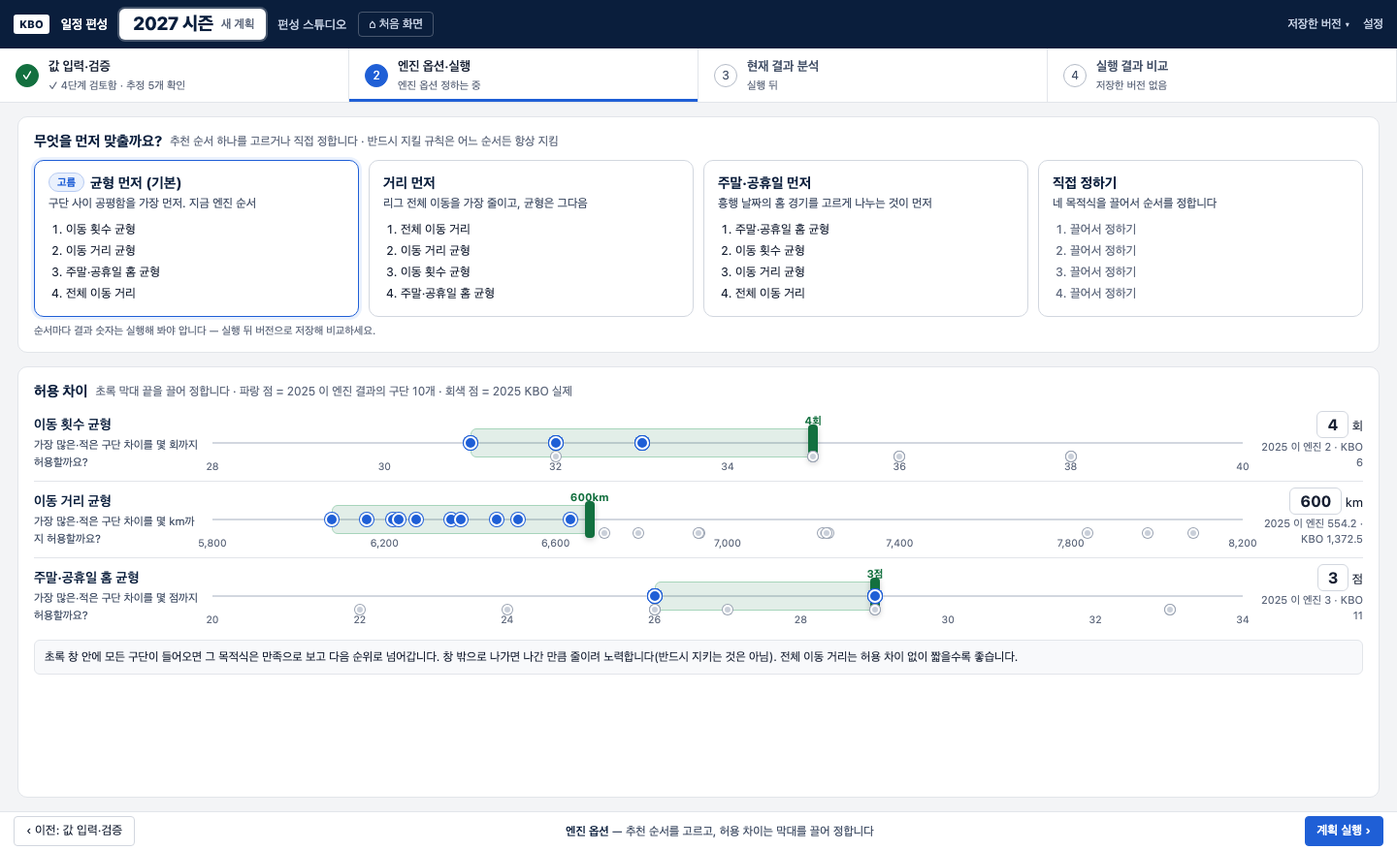
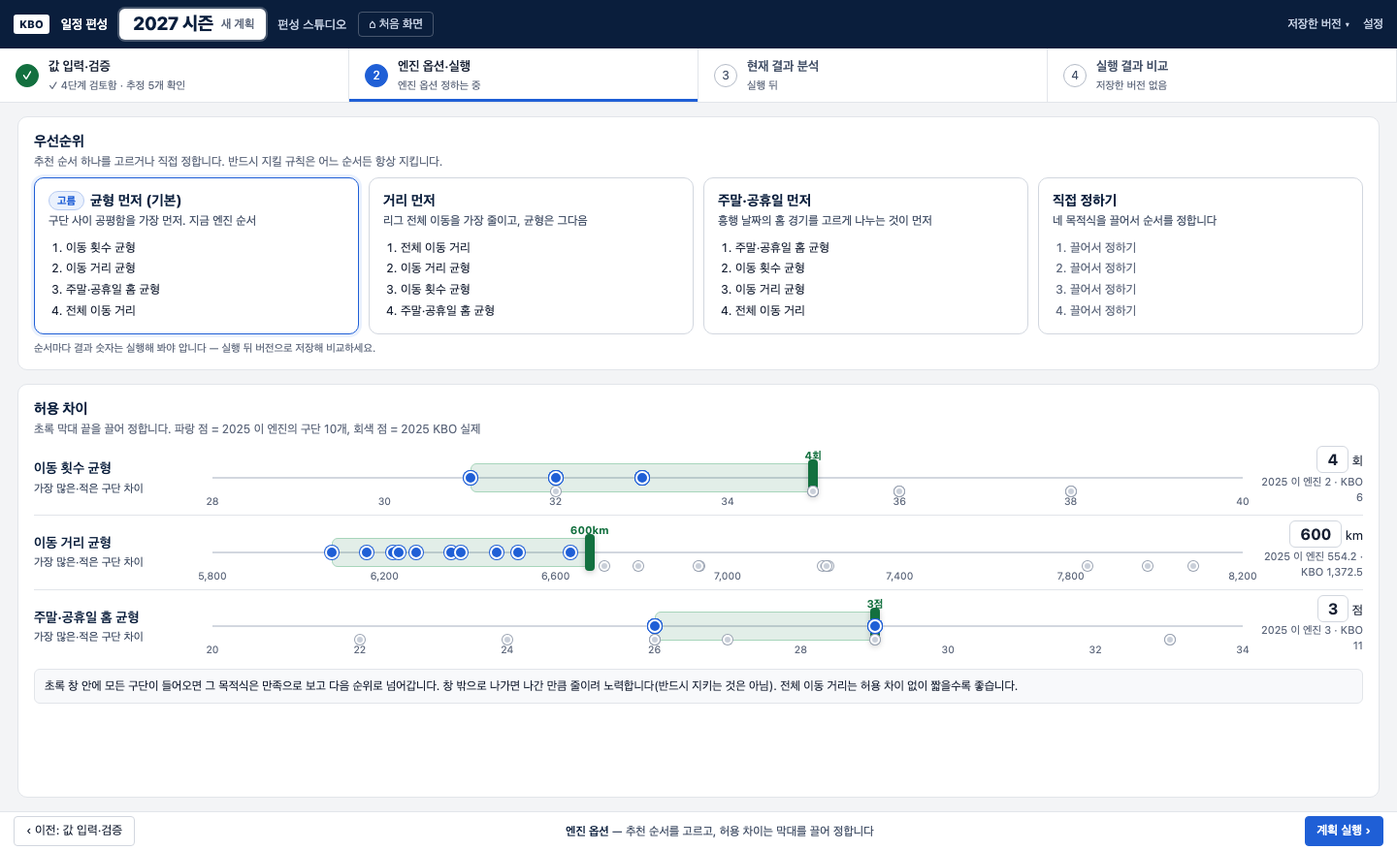
계획 흐름 시안: 처음 화면 정보 줄임(2025 숫자 하나 · 2027은 값 입력·검증 4단계만), 제목은 짧게 설명은 밑 줄로, 개발 용어(JSON·파일 이름·출발점) 바꿈

Changed region(s): [[0.0, 0.1539, 0.9688, 0.8312], [0.5, 0.1847, 0.6562, 0.3694], [0.75, 0.1847, 0.875, 0.3694]]

diff --git a/ui-archive/plan-flow-concepts/index.html b/ui-archive/plan-flow-concepts/index.html
@@ -21,18 +21,19 @@ a{color:#1F5FD6}
 <div class="box"><b>순서</b><div class="flow"><span class="b">처음 화면</span>→<span>2025 결과 보기(강조 · 보기 전용)</span>&nbsp;또는&nbsp;<span class="b">2027 값 입력·검증</span>(1 구단 정보 → 2 시즌 기간 → 3 공휴일·홈 구장 → 4 확인)→<span class="b">엔진 옵션·실행</span>→<span class="b">결과 분석</span>→<span>버전 저장 · 비교 · 옵션 바꿔 다시</span></div>
 <ul>
 <li><b>정한 것</b>: 목적식 우선순위는 <b>순서만</b> 정함(위가 조금이라도 나으면 그쪽) · 허용 차이는 <b>가장 많은 구단과 가장 적은 구단의 차이</b> · 넘으면 <b>줄이려 노력</b>(반드시는 아님) · 주말과 공휴일은 <b>한 점수로 합침</b>(주말 하루 1점 · 공휴일 2점 · 어린이날 3점, 지금 엔진 그대로).</li>
-<li><b>숫자는 모두 실제로 돌린 값</b>입니다. 2025 이 엔진 = 저장된 결과(10/20 실행), 2027 기본안 = 2027 원칙 입력으로 엔진 28.7초, 2027 개막 대진 바꾼 안 = 같은 방식 19.4초. 모두 브라우저 채점기로 다시 셌습니다.</li>
+<li><b>숫자는 모두 실제로 돌린 값</b>입니다. 2025 이 엔진 = 저장된 결과(10/20 실행), 2027 기본안 = 2027 원칙 입력으로 엔진 28.7초, 2027 개막 대진 바꾼 안 = 같은 방식 19.4초. 모두 스튜디오 점검 기능으로 다시 셌습니다.</li>
 <li><b>엔진을 고쳐야 하는 것 두 가지</b>: (1) 목적식 순서가 지금은 코드에 고정(이동 횟수 → 이동 거리 → 주말·공휴일 → 전체 거리) → 화면에서 정한 순서를 받도록. (2) 허용 차이가 지금은 「리그 평균 ±값」 방식 → 「가장 많은·적은 구단 차이」로. 그래서 <b>순서를 바꾼 결과의 숫자는 아직 없습니다</b>(대안 A의 추천 순서 카드에 숫자를 넣지 않은 이유).</li>
 <li><b>허용 차이 기본값 4회 · 600km · 3점</b>은 지금 엔진 기본값(평균 ±2회 · ±300km · ±1.5점)을 차이로 옮긴 제안값입니다. 결과에 맞춰 고른 값이 아닙니다 — 2027 기본안의 이동 거리 차이 594.4km는 600km에 거의 붙어 있습니다.</li>
-<li><b>주의 — 엔진 결과가 실행마다 흔들립니다.</b> 2025를 오늘 엔진으로 다시 돌리면 69,821km(KBO보다 4% 짧음), 출발점 하나하나는 63,312~73,960km였습니다. 2025 화면의 −13%는 저장된 가장 좋은 결과입니다. 표준 10과 대안 C에 「전체 이동 거리가 수천 km씩 달라질 수 있으니 다시 실행해 확인」 안내를 넣었습니다.</li>
+<li><b>주의 — 엔진 결과가 실행마다 흔들립니다.</b> 2025를 오늘 엔진으로 다시 돌리면 69,821km(KBO보다 4% 짧음), 시도 하나하나는 63,312~73,960km였습니다. 2025 화면의 −13%는 저장된 가장 좋은 결과입니다. 표준 10과 대안 C에 「전체 이동 거리가 수천 km씩 달라질 수 있으니 다시 실행해 확인」 안내를 넣었습니다.</li>
 <li><b>따라 하기 모양</b>은 지금 스튜디오의 「따라 하기 카드」를 그대로 썼습니다. 모양(카드 · 체크리스트 · 말풍선)은 아직 고르지 않은 초기화·튜토리얼 3안 브랜치에서 고르시면 됩니다.</li>
 </ul></div>
+<div class="box" style="border-color:#1F5FD6"><b>화면 글 원칙</b> — 개발 용어는 쓰지 않고, 제목은 짧게 · 설명은 그 밑 줄에.</div>
 <div class="box" style="border-color:#1F5FD6"><b>고른 조합 (2026-10-31 사용자 결정)</b> — 엔진 옵션은 <b>대안 A</b>, 결과 분석은 <b>대안 B</b>, 결과 비교는 <b>네 번째 단계 「실행 결과 비교」</b>로 따로 둡니다(대안 C는 쓰지 않음). 단계 띠는 4칸: 값 입력·검증 → 엔진 옵션·실행 → 현재 결과 분석 → 실행 결과 비교.
 <div class="flow"><a href="s1-start.html"><span>처음 화면</span></a>→<a href="s2-2025.html"><span>2025 결과</span></a>&nbsp;또는&nbsp;<a href="s3-teams.html"><span class="b">1 값 입력·검증</span></a>(<a href="s3-teams.html">1</a> · <a href="s4-season.html">2</a> · <a href="s5-home.html">3</a> · <a href="s6-check.html">4</a>)→<a href="a-options.html"><span class="b">2 엔진 옵션(A)</span></a>→<a href="s8-running.html"><span>실행 중</span></a>→<a href="b-dashboard.html"><span class="b">3 현재 결과 분석(B)</span></a>→<a href="s10-versions.html"><span class="b">4 실행 결과 비교</span></a></div>
 <ul><li>「실행 결과 비교」는 순서대로 가는 단계가 아니라 <b>저장한 버전이 있으면 언제든 누를 수 있는 탭</b>입니다. 버전 저장은 3 현재 결과 분석에서 합니다.</li></ul></div>
 <h2 style="font-size:20px;margin-top:40px">표준안</h2>
 <h2>표준 1 · 처음 화면</h2>
-<figure><a href="s1-start.html"><img src="shots/s1-start.png" alt=""></a><figcaption><b>2025 보기 / 2027 만들기.</b> 2025 카드에 목적식 4개의 KBO 실제 → 이 엔진 숫자를 미리 보여 주고, 2027 카드에는 세 단계(값 입력·검증 → 엔진 옵션·실행 → 결과 분석)와 <b>추정값이 있다</b>는 것을 먼저 알립니다. 2027 버튼은 「1 구단 정보부터」.</figcaption></figure>
+<figure><a href="s1-start.html"><img src="shots/s1-start.png" alt=""></a><figcaption><b>2025 보기 / 2027 만들기 — 정보를 줄임.</b> 2025 카드는 핵심 숫자 하나(전체 이동 거리 13% 짧음). 2027 카드는 <b>값 입력·검증 4단계만</b> 알려 줍니다(단계마다 추정값 개수). 엔진 옵션·결과 분석 설명은 뺐습니다.</figcaption></figure>
 <h2>표준 2 · 2025 결과 — 우리가 낫다는 점을 강조</h2>
 <figure><a href="s2-2025.html"><img src="shots/s2-2025.png" alt=""></a><figcaption><b>목적식 4개가 모두 좋아졌다</b>를 맨 위에 크게. 목적식 순위 순으로 KBO 실제 → 이 엔진(이동 횟수 차이 6 → 2회 · 이동 거리 차이 1,372.5 → 554.2km · 주말·공휴일 점수 차이 11 → 3점 · 전체 이동 거리 72,955 → 63,312km). 균형 세 가지는 KBO 실제가 허용 차이를 넘고 이 엔진은 안에 있다는 것도 표시. <b>KBO가 나은 점</b>(가장 긴 연속 원정 2~3 vs 3시리즈)도 숨기지 않습니다. 보기 전용.</figcaption></figure>
 <h2>표준 3 · 2027 1 구단 정보 — 따라 하기 시작</h2>
@@ -50,7 +51,7 @@ a{color:#1F5FD6}
 <h2>표준 9 · 2027 결과 분석 — 목적식마다 탭</h2>
 <figure><a href="s9-analysis.html"><img src="shots/s9-analysis.png" alt=""></a><figcaption><b>맨 위에서 이름을 붙여 버전으로 저장.</b> 목적식 타일 4개(누르면 아래 탭이 바뀜) → 탭(목적식 4개 + 주말 홈 시리즈 · 연속 원정). 이동 거리 균형 탭: 구단별 표(평균과 차이 · 가장 적은 구단과 차이)와 허용 띠가 있는 막대 그래프, 「NC 6,675.7 · 두산 6,081.3 → 차이 594.4km, 허용 600km 안」 한 줄.</figcaption></figure>
 <h2>표준 10 → 4단계 · 2027 실행 결과 비교 — 저장한 버전끼리 (고른 조합에 씀)</h2>
-<figure><a href="s10-versions.html"><img src="shots/s10-versions.png" alt=""></a><figcaption><b>버전 목록에서 두 개를 골라 목적식마다 비교.</b> 실제로 돌린 두 버전: 기본안 vs 개막 대진 바꾼 안(롯데@KT · 한화@KIA). 「순위대로 따지면 1~3순위는 둘 다 허용 안 → 4순위 전체 이동 거리에서 이번 실행에서는 기본안이 5,238km 짧았다」를 풀어 씀. <b>단, 이 차이는 실행마다의 흔들림 안에 있습니다</b>(출발점별 기본안 63,754~70,419km · 바꾼 안 67,511~76,027km). 그래서 화면에 「수천 km씩 달라질 수 있으니 다시 실행해 확인」을 넣었습니다. 저장은 버전마다 JSON 파일 하나(나중에 온라인 저장소), 파일로 내보내기·불러오기.</figcaption></figure>
+<figure><a href="s10-versions.html"><img src="shots/s10-versions.png" alt=""></a><figcaption><b>버전 목록에서 두 개를 골라 목적식마다 비교.</b> 실제로 돌린 두 버전: 기본안 vs 개막 대진 바꾼 안(롯데@KT · 한화@KIA). 「순위대로 따지면 1~3순위는 둘 다 허용 안 → 4순위 전체 이동 거리에서 이번 실행에서는 기본안이 5,238km 짧았다」를 풀어 씀. <b>단, 이 차이는 실행마다의 흔들림 안에 있습니다</b>(시도별 기본안 63,754~70,419km · 바꾼 안 67,511~76,027km). 그래서 화면에 「수천 km씩 달라질 수 있으니 다시 실행해 확인」을 넣었습니다. 저장은 스튜디오 안(나중에 온라인으로), 내려받기·올리기.</figcaption></figure>
 
 <h2 style="font-size:20px;margin-top:40px">대안 — 한 영역씩만 다름</h2>
 <h2>대안 A · 엔진 옵션 — 추천 순서 카드 + 허용 차이를 그림으로</h2>

diff --git a/ui-archive/plan-flow-concepts/s5-home.html b/ui-archive/plan-flow-concepts/s5-home.html
@@ -4,19 +4,19 @@ P.chrome({ year: 2027, mode: '새 계획', stage: 1, ssub: { 1: '3 / 4 공휴일
   prev: '이전: 2 시즌 기간·연전 묶음', hint: '<b>3 / 4 공휴일·홈 구장</b> — 개막전·어린이날 홈 구단을 확인합니다', next: '다음: 4 확인', nextDis: true });
 const chips = (a) => a.map((t) => '<span class="chip on" style="padding:2px 9px">' + t + '</span>').join(' ');
 document.querySelector('.wrap2').innerHTML =
-  '<div class="sec" style="overflow:hidden"><h3>2027 공휴일·홈 구장 <span class="r small muted">2 / 4 확인함</span></h3><p class="d">정한 날에 홈 경기를 할 구단을 지정합니다. 나머지 날의 홈·원정은 엔진이 정합니다.</p>' +
-  P.rv({ t: '공휴일', tag: 'cal', v: '1차 편성 기간 안 5일 — 5/5 어린이날 · 5/13 부처님오신날 · 6/6 현충일 · 8/15 광복절 · 8/16 대체공휴일 (추석 9/14~16은 1차 편성 뒤)', why: '정부 공휴일 달력 그대로입니다. 홈 경기 점수는 주말 하루 1점, 공휴일 2점, 어린이날 3점으로 셉니다.', src: '공휴일 달력', state: 'ok' }) +
+  '<div class="sec" style="overflow:hidden"><h3>공휴일·홈 구장 <span class="r small">2 / 4 확인함</span></h3><p class="d">정한 날에 홈 경기를 할 구단을 지정합니다. 나머지 날의 홈·원정은 엔진이 정합니다.</p>' +
+  P.rv({ t: '공휴일', tag: 'cal', v: '1차 편성 기간 안 5일', v2: '5/5 어린이날 · 5/13 부처님오신날 · 6/6 현충일 · 8/15 광복절 · 8/16 대체공휴일 (추석 9/14~16은 1차 편성 뒤)', why: '정부 공휴일 달력 그대로입니다. 홈 경기 점수는 주말 하루 1점, 공휴일 2점, 어린이날 3점으로 셉니다.', src: '공휴일 달력', state: 'ok' }) +
   P.rv({ t: '홈 경기 수', tag: 'rule', v: '73경기: 한화 · SSG · KT · 롯데 · 두산 &nbsp;/&nbsp; 71경기: 나머지 5구단', why: '맞대결 16경기 중 홈 8·원정 8, 남는 홈 경기는 해마다 번갈아 가집니다(2027 = 홀수 해).', src: '2027 원칙', state: 'ok' }) +
-  P.rv({ t: '개막 2연전 홈 · 3/27(토)·28(일)', tag: 'est', v: chips(['KT', '삼성', 'KIA', 'LG', 'SSG']) + ' <span class="small muted" style="margin-left:6px">대진 한화@KT · NC@삼성 · 롯데@KIA · 키움@LG · 두산@SSG</span>', why: '전년도 상위 5구단이 홈에서 개막합니다. 2026 최종 순위가 정해지면 다시 확인하세요.', src: '2027_kbo_135.md', state: 'cur' }) +
-  P.rv({ t: '어린이날 홈 · 5/5(수)', tag: 'est', v: chips(['두산', '키움', '한화', '롯데', 'NC']), why: '어린이날 홈은 해마다 번갈아 가집니다(홀수 해 = 이 5구단).', src: '2027_kbo_135.md' }) +
-  P.rv({ t: '후반기 첫 4연전 홈 · 7/15(목)~18(일)', tag: 'rule', v: '개막 대진 그대로, 개막전 홈 구장에서', why: '개막전 홈 구단을 고치면 함께 바뀝니다.', src: '2027 원칙' }) +
+  P.rv({ t: '개막 2연전 홈', tag: 'est', v: '3/27(토)·28(일) &nbsp;' + chips(['KT', '삼성', 'KIA', 'LG', 'SSG']) + ' <span class="small muted" style="margin-left:6px">대진 한화@KT · NC@삼성 · 롯데@KIA · 키움@LG · 두산@SSG</span>', why: '전년도 상위 5구단이 홈에서 개막합니다. 2026 최종 순위가 정해지면 다시 확인하세요.', src: '2027 일정 원칙', state: 'cur' }) +
+  P.rv({ t: '어린이날 홈', tag: 'est', v: '5/5(수) &nbsp;' + chips(['두산', '키움', '한화', '롯데', 'NC']), why: '어린이날 홈은 해마다 번갈아 가집니다(홀수 해 = 이 5구단).', src: '2027 일정 원칙' }) +
+  P.rv({ t: '후반기 첫 4연전 홈', tag: 'rule', v: '7/15(목)~18(일) · 개막 대진 그대로', why: '개막전 홈 구단을 고치면 함께 바뀝니다.', src: '2027 원칙' }) +
   '</div>' +
-  '<div class="sec"><h3>지정한 날 한눈에</h3><p class="d">홈 구단이 정해진 날만 표시합니다.</p>' +
+  '<div class="sec"><h3>지정한 날</h3><p class="d">홈 구단이 정해진 날만</p>' +
   '<table class="cmp"><thead><tr><th>날짜</th><th>홈 구단</th><th>상태</th></tr></thead><tbody>' +
   '<tr><td>3/27~28 개막</td><td>KT·삼성·KIA·LG·SSG</td><td><span class="tag est">추정</span></td></tr>' +
   '<tr><td>5/5 어린이날</td><td>두산·키움·한화·롯데·NC</td><td><span class="tag est">추정</span></td></tr>' +
   '<tr><td>7/15~18 후반기</td><td>개막과 같음</td><td><span class="tag blue">자동</span></td></tr></tbody></table>' +
-  '<div class="box warn" style="margin-top:12px"><h4>추정값 2개 · 0개 확인함</h4><div class="small">개막 2연전 홈 · 어린이날 홈</div></div></div>' +
-  P.ring(14, 268, 1042, 94) +
-  P.coach({ n: 3, of: 4, title: '개막전 홈은 전년도 순위로 정해집니다', text: '지금은 예상 순위로 채워 두었습니다. 다르면 「고치기」를 눌러 구단을 바꾸세요. 개막 대진을 바꾸면 후반기 첫 4연전도 같은 대진으로 따라 바뀝니다.', x: 640, y: 372, side: 't', w: 360 });
+  '<div class="box warn" style="margin-top:12px"><h4>추정값 0 / 2 확인</h4><div class="small">개막 2연전 홈 · 어린이날 홈</div></div></div>' +
+  P.ring(14, 287, 1042, 94) +
+  P.coach({ n: 3, of: 4, title: '개막전 홈 확인', text: '지금은 예상 순위로 채워 두었습니다. 다르면 「고치기」를 눌러 구단을 바꾸세요. 개막 대진을 바꾸면 후반기 첫 4연전도 같은 대진으로 따라 바뀝니다.', x: 640, y: 390, side: 't', w: 360 });
 </script></body></html>

diff --git a/ui-archive/plan-flow-concepts/s4-season.html b/ui-archive/plan-flow-concepts/s4-season.html
@@ -3,18 +3,18 @@ const P = Plan;
 P.chrome({ year: 2027, mode: '새 계획', stage: 1, ssub: { 1: '2 / 4 시즌 기간 · 검토 중', 2: '값 검토를 마치면', 3: '실행 뒤', 4: '저장한 버전 없음' }, at: 2, sub: { 1: '✓ 바뀐 것 없음', 2: '1 / 4 확인함 · 따라 하기 2 / 4' },
   prev: '이전: 1 구단 정보', hint: '<b>2 / 4 시즌 기간·연전 묶음</b> — 노란 추정값을 하나씩 확인합니다', next: '다음: 3 공휴일·홈 구장', nextDis: true });
 document.querySelector('.wrap2').innerHTML =
-  '<div class="sec" style="overflow:hidden"><h3>2027 시즌 기간·연전 묶음 <span class="r small muted">줄마다 「맞아요」 또는 「고치기」 · 1 / 4 확인함</span></h3><p class="d">개막일과 1차 편성 기간이 정해지면 경기일과 연전 묶음은 규칙대로 자동으로 만들어집니다.</p>' +
-  P.rv({ t: '개막일', tag: 'est', v: '2027-03-27(토) · 개막 2연전 3/27(토)·28(일)', why: '3월 넷째 주 토요일에 2연전으로 엽니다(2025는 3/22 토 개막).', src: '2027_kbo_135.md 예상안', state: 'ok' }) +
-  P.rv({ t: '1차 편성이 끝나는 날', tag: 'est', v: '2027-09-05(일) · 경기일 135일', why: '개막부터 경기일을 세어 135일이 되는 첫 일요일입니다. 남은 경기(잔여 일정)는 그 뒤에 따로 짭니다.', src: '2027_kbo_135.md', state: 'cur' }) +
-  P.rv({ t: '올스타 휴식기', tag: 'est', v: '2027-07-09(금) ~ 07-14(수) · 6일 경기 없음', why: '7월 둘째 금요일부터 6일(올스타전 포함)로 잡았습니다.', src: '2027_KBO_일정_예상.xlsx' }) +
+  '<div class="sec" style="overflow:hidden"><h3>시즌 기간·연전 묶음 <span class="r small">1 / 4 확인함</span></h3><p class="d">줄마다 「맞아요」 또는 「고치기」. 개막일과 1차 편성 기간이 정해지면 경기일과 연전 묶음은 규칙대로 자동으로 만들어집니다.</p>' +
+  P.rv({ t: '개막일', tag: 'est', v: '2027-03-27(토) · 개막 2연전 3/27(토)·28(일)', why: '3월 넷째 주 토요일에 2연전으로 엽니다(2025는 3/22 토 개막).', src: '2027 일정 원칙', state: 'ok' }) +
+  P.rv({ t: '1차 편성이 끝나는 날', tag: 'est', v: '2027-09-05(일) · 경기일 135일', why: '개막부터 경기일을 세어 135일이 되는 첫 일요일입니다. 남은 경기(잔여 일정)는 그 뒤에 따로 짭니다.', src: '2027 일정 원칙', state: 'cur' }) +
+  P.rv({ t: '올스타 휴식기', tag: 'est', v: '2027-07-09(금) ~ 07-14(수) · 6일 경기 없음', why: '7월 둘째 금요일부터 6일(올스타전 포함)로 잡았습니다.', src: '2027 일정 예상 엑셀' }) +
   P.rv({ t: '후반기 첫 4연전', tag: 'rule', v: '2027-07-15(목) ~ 18(일)', why: '올스타 휴식기 바로 뒤 목~일을 4연전으로 묶습니다. 휴식기를 고치면 함께 옮겨집니다.', src: '2027 원칙' }) +
   P.rv({ t: '쉬는 요일', tag: 'got', v: '월요일 (월요일 공휴일은 경기하고 그 주 목요일 쉼)', why: '2025와 같은 관행입니다.', src: '2025 일정' }) +
   '</div>' +
-  '<div class="sec"><h3>이렇게 만들어집니다</h3><p class="d">위 값으로 자동 계산 — 값을 고치면 바로 다시 셉니다.</p>' +
+  '<div class="sec"><h3>자동 계산</h3><p class="d">값을 고치면 바로 다시 셉니다.</p>' +
   '<div class="nums" style="grid-template-columns:1fr 1fr"><div class="nm"><div class="k">경기일</div><div class="v">135<small> / 135일</small></div></div><div class="nm"><div class="k">연전 묶음</div><div class="v">45<small>개</small></div><div class="s">3연전 43 · 2연전 1 · 4연전 1</div></div>' +
   '<div class="nm"><div class="k">기간</div><div class="v" style="font-size:16px">3/27 ~ 9/5</div></div><div class="nm"><div class="k">맞대결</div><div class="v">15<small>경기씩</small></div><div class="s">+ 잔여 1경기는 9/5 뒤</div></div></div>' +
-  '<div class="box warn" style="margin-top:12px"><h4>추정값 3개 · 1개 확인함</h4><div class="small">개막일 ✓ · 1차 편성 끝나는 날 · 올스타 휴식기</div></div>' +
+  '<div class="box warn" style="margin-top:12px"><h4>추정값 1 / 3 확인</h4><div class="small">개막일 ✓ · 1차 편성 끝나는 날 · 올스타 휴식기</div></div>' +
   '<div class="box" style="margin-top:8px"><h4>달력으로 보기</h4><div class="small muted">지금 스튜디오의 시즌 달력(경기일·휴식·올스타)을 그대로 씁니다(이 시안에서는 생략).</div></div></div>' +
   P.ring(14, 174, 1042, 94) +
-  P.coach({ n: 2, of: 4, title: '노란 「추정」 줄을 꼭 확인하세요', text: '1차 편성이 끝나는 날은 「경기일 135일」 규칙으로 계산한 값입니다. KBO 실제 계획과 다르면 「고치기」로 날짜를 바꾸세요 — 경기일 수와 연전 묶음이 오른쪽에서 바로 다시 계산됩니다.', x: 640, y: 280, side: 't', w: 360 });
+  P.coach({ n: 2, of: 4, title: '추정값 확인', text: '1차 편성이 끝나는 날은 「경기일 135일」 규칙으로 계산한 값입니다. KBO 실제 계획과 다르면 「고치기」로 날짜를 바꾸세요 — 경기일 수와 연전 묶음이 오른쪽에서 바로 다시 계산됩니다.', x: 640, y: 280, side: 't', w: 360 });
 </script></body></html>

diff --git a/ui-archive/plan-flow-concepts/s10-versions.html b/ui-archive/plan-flow-concepts/s10-versions.html
@@ -7,15 +7,15 @@ const ver = (on, name, what, when, set) => '<div class="ver' + (on ? ' on' : '')
 const row = (g) => { const a = P.val(A, g), b = P.val(B, g), inA = !g.tol || a <= g.tol, inB = !g.tol || b <= g.tol;
   return '<tr><td><b>' + g.name + '</b>' + (g.tol ? ' <span class="muted">차이 · 허용 ' + P.fmt(g.tol) + g.unit + '</span>' : ' <span class="muted">10구단 합</span>') + '</td><td class="' + (a < b ? 'win' : '') + '">' + P.show(A, g) + g.unit + (g.tol ? ' <span class="tag ' + (inA ? 'ok' : 'over') + '">' + (inA ? '안' : '넘음') + '</span>' : '') + '</td><td class="' + (b < a ? 'win' : '') + '">' + P.show(B, g) + g.unit + (g.tol ? ' <span class="tag ' + (inB ? 'ok' : 'over') + '">' + (inB ? '안' : '넘음') + '</span>' : '') + '</td></tr>'; };
 document.querySelector('.wrap2').innerHTML =
-  '<div class="sec" style="display:flex;flex-direction:column;gap:10px"><h3>저장한 버전 <span class="r small muted">2개 골라 비교</span></h3><div class="vers">' +
+  '<div class="sec" style="display:flex;flex-direction:column;gap:10px"><h3>저장한 버전 <span class="r small">2개 고름</span></h3><div class="vers">' +
   ver(true, '2027 기본안', '값 고친 것 없음 · 엔진 옵션 기본 순서', '10/31 11:43 저장 · 28.7초', A) +
   ver(true, '2027 개막 대진 바꾼 안', '개막 대진 2쌍 맞바꿈(롯데@KT · 한화@KIA) · 엔진 옵션 같음', '10/31 11:47 저장 · 19.4초', B) +
-  '</div><div class="box"><h4>저장 위치</h4><div class="small">지금은 버전마다 JSON 파일 하나로 저장합니다(나중에 온라인 저장소로 옮김). 「파일로 내보내기」로 다른 사람에게 줄 수도 있습니다.</div></div>' +
-  '<div style="display:flex;gap:6px"><span class="btn sm">이름 바꾸기</span><span class="btn sm">파일로 내보내기</span><span class="btn sm">파일에서 불러오기</span></div></div>' +
+  '</div><div class="box"><h4>저장 위치</h4><div class="small">스튜디오 안에 저장됩니다(나중에 온라인으로 옮김). 「내려받기」로 다른 사람에게 줄 수 있습니다.</div></div>' +
+  '<div style="display:flex;gap:6px"><span class="btn sm">이름 바꾸기</span><span class="btn sm">내려받기</span><span class="btn sm">받은 버전 올리기</span></div></div>' +
   '<div style="display:flex;flex-direction:column;gap:12px;min-height:0">' +
-  '<div class="sec"><h3>목적식마다 비교 <span class="small muted" style="font-weight:400">순위 순 · 초록 = 더 나음</span></h3><table class="cmp"><thead><tr><th>목적식</th><th>2027 기본안</th><th>2027 개막 대진 바꾼 안</th></tr></thead><tbody>' + G.map(row).join('') +
+  '<div class="sec"><h3>목적식마다 비교 <span class="small muted">순위 순 · 초록 = 더 나음</span></h3><table class="cmp"><thead><tr><th>목적식</th><th>2027 기본안</th><th>2027 개막 대진 바꾼 안</th></tr></thead><tbody>' + G.map(row).join('') +
   '<tr><td class="muted">무엇이 달랐나</td><td>—</td><td>개막 2연전·후반기 첫 4연전 대진 2쌍</td></tr></tbody></table>' +
   '<div class="small" style="margin-top:10px;padding:8px 10px;border:1px solid var(--blue-line);background:var(--blue-weak);border-radius:6px"><b>순위대로 따지면</b> — 1~3순위는 두 버전 모두 허용 차이 안이라 같다고 봅니다. 4순위 전체 이동 거리에서 <b>이번 실행에서는 기본안이 ' + P.fmt(P.TOTAL[B] - P.TOTAL[A]) + 'km 짧았습니다</b>. 이동 거리 균형만 보면 바꾼 안이 더 고릅니다(' + P.show(B, G[1]) + 'km).</div>' +
   '<div class="small muted" style="margin-top:6px">같은 조건으로 다시 실행해도 전체 이동 거리가 수천 km씩 달라질 수 있습니다. 이 정도 차이는 두 버전을 각각 다시 실행해 확인하세요.</div></div>' +
-  '<div class="sec" style="flex:1;min-height:0;overflow:hidden"><div class="tabs" style="margin:-4px 0 8px"><span>이동 횟수</span><span class="on">이동 거리</span><span>주말·공휴일 홈 점수</span></div><h3>구단별 이동 거리 <span class="small muted" style="font-weight:400">회색 기본안 · 파랑 바꾼 안 · 초록 띠 = 바꾼 안의 가장 적은 구단 + 600km</span></h3>' + P.teamBars(B, 0, 600, 'km', A) + '</div></div>';
+  '<div class="sec" style="flex:1;min-height:0;overflow:hidden"><div class="tabs" style="margin:-4px 0 8px"><span>이동 횟수</span><span class="on">이동 거리</span><span>주말·공휴일 홈 점수</span></div><h3>구단별 이동 거리 <span class="small muted">회색 기본안 · 파랑 바꾼 안 · 초록 띠 = 바꾼 안의 가장 적은 구단 + 600km</span></h3>' + P.teamBars(B, 0, 600, 'km', A) + '</div></div>';
 </script></body></html>

diff --git a/ui-archive/plan-flow-concepts/s1-start.html b/ui-archive/plan-flow-concepts/s1-start.html
@@ -1,16 +1,16 @@
 <!doctype html><html lang="ko"><head><meta charset="utf-8"><title>표준 1 · 처음 화면</title><link rel="stylesheet" href="../input-flow-concepts/concept.css"><link rel="stylesheet" href="../step-flow-concepts/flow.css"><link rel="stylesheet" href="../demo-flow-concepts/demo.css"><link rel="stylesheet" href="plan.css"></head><body><div class="start"></div><script src="plan.js"></script><script>
-const P = Plan, G = P.GOALS;
+const P = Plan;
 P.chrome({ noStepper: true, noFoot: true, right: '설정' });
-const cut = (g) => Math.round((1 - P.val('ours25', g) / P.val('kbo25', g)) * 100);
-document.querySelector('.start').innerHTML = '<h1>무엇을 할까요?</h1><p class="lead">2025년은 이미 나온 결과를 확인하고, 2027년은 새 계획을 직접 만듭니다.</p><div class="choices">' +
-  '<div class="ch"><div class="kick">확인용 · 고치지 않음</div><div class="y">2025<small>계획 보기</small></div><p class="what">같은 2025 조건에서 <b>KBO 실제 일정</b>과 <b>이 엔진이 짠 일정</b>을 나란히 봅니다.</p><ul>' +
-  G.map((g) => '<li><b>' + g.name + '</b><span>KBO ' + (g.id === 'total' ? '' : '차이 ') + P.show('kbo25', g) + g.unit + ' → <b style="min-width:0;color:var(--ok)">' + P.show('ours25', g) + g.unit + '</b> (' + cut(g) + '% ' + (g.id === 'total' ? '짧음' : '줄임') + ')</span></li>').join('') +
-  '<li style="background:#fff"><span class="muted">균형 3가지는 가장 많은 구단과 가장 적은 구단의 차이입니다.</span></li></ul><div class="acts"><span class="btn big">2025 결과 보기 ›</span></div></div>' +
-  '<div class="ch go"><div class="kick">새 계획</div><div class="y">2027<small>새 계획 만들기</small></div><p class="what">2027 값은 미리 채워 두었지만 <b>추정값</b>이 있습니다. 한 단계씩 검토하고 고친 뒤 실행합니다.</p><ul>' +
-  '<li><b>1. 값 입력·검증</b><span>1 구단 정보 → 2 시즌 기간·연전 묶음 → 3 공휴일·홈 구장 → 4 확인 · 따라 하기가 단계마다 안내</span></li>' +
-  '<li><b>2. 엔진 옵션·실행</b><span>목적식 4개의 순서와 균형의 허용 차이를 정하고 실행</span></li>' +
-  '<li><b>3. 결과 분석</b><span>목적식마다 표·그래프로 보고, 이름을 붙여 버전으로 저장·비교</span></li>' +
-  '<li style="background:var(--warn-bg);border-color:var(--warn-line)"><b>추정값 4가지</b><span>개막일 · 개막전·어린이날 홈 구장 · 올스타 휴식기 · 1차 편성 끝나는 날</span></li></ul>' +
-  '<div class="acts"><span class="btn pri big">2027 검토 시작 — 1 구단 정보부터 ›</span></div></div></div>' +
-  '<div class="note">저장한 2027 버전이 있으면 오른쪽 카드에 「이어서 보기」가 함께 나옵니다.</div>';
+const step = (n, t, s, est) => '<li><b>' + n + ' ' + t + '</b><span>' + s + (est ? ' <span class="tag est">추정 ' + est + '개</span>' : '') + '</span></li>';
+document.querySelector('.start').innerHTML = '<h1>무엇을 할까요?</h1><p class="lead">2025는 결과 확인, 2027은 새 계획 만들기</p><div class="choices">' +
+  '<div class="ch" style="min-height:0"><div class="kick">확인용</div><div class="y">2025<small>계획 보기</small></div><p class="what">KBO 실제 일정과 이 엔진의 일정을 비교합니다.</p>' +
+  '<div class="nm" style="margin:6px 0 auto"><div class="k">전체 이동 거리</div><div class="v" style="color:var(--ok)">13% 짧음</div><div class="s">KBO 72,955km → 63,312km</div></div>' +
+  '<div class="acts"><span class="btn big">2025 결과 보기 ›</span></div></div>' +
+  '<div class="ch go" style="min-height:0"><div class="kick">새 계획</div><div class="y">2027<small>새 계획 만들기</small></div><p class="what">먼저 미리 채운 2027 값을 4단계로 검토합니다.</p><ul>' +
+  step(1, '구단 정보', '2025 그대로인지 확인') +
+  step(2, '시즌 기간·연전 묶음', '개막일 · 올스타 휴식기 · 1차 편성 기간', 3) +
+  step(3, '공휴일·홈 구장', '개막전 · 어린이날 홈 구단', 2) +
+  step(4, '확인', '모두 맞으면 다음으로') +
+  '</ul><div class="small muted">노란 <span class="tag est">추정</span> 값은 확정 전이라 꼭 확인하세요. 단계마다 따라 하기가 안내합니다.</div>' +
+  '<div class="acts"><span class="btn pri big">검토 시작 ›</span></div></div></div>';
 </script></body></html>

diff --git a/ui-archive/plan-flow-concepts/a-options.html b/ui-archive/plan-flow-concepts/a-options.html
@@ -7,18 +7,18 @@ const oc = (on, t, p, ids, diy) => '<div class="oc' + (on ? ' on' : '') + (diy ?
 // 허용 차이 그림: 2025 이 엔진(파랑 점)·KBO 실제(회색 점) 구단별 값을 가장 적은 구단 기준으로 놓고, 허용 창(초록)을 끌어 정한다
 const sl = (g, lo, hi, step) => { const x = (v) => ((v - lo) / (hi - lo) * 100).toFixed(1) + '%', ours = P.vals('ours25', g.i), kbo = P.vals('kbo25', g.i), m = Math.min(...ours);
   const ticks = []; for (let v = lo; v <= hi; v += step) ticks.push('<span class="tk" style="left:' + x(v) + '">' + P.fmt(v) + '</span>');
-  return '<div class="sl"><div class="k"><b>' + g.name + '</b><small>가장 많은·적은 구단 차이를 몇 ' + g.unit + '까지 허용할까요?</small></div><div class="ax"><span class="ln"></span>' +
+  return '<div class="sl"><div class="k"><b>' + g.name + '</b><small>가장 많은·적은 구단 차이</small></div><div class="ax"><span class="ln"></span>' +
     '<span class="win" style="left:' + x(m) + ';width:calc(' + x(m + g.tol) + ' - ' + x(m) + ')"></span><span class="hdl" style="left:' + x(m + g.tol) + '"></span><span class="lab" style="left:' + x(m + g.tol) + '">' + P.fmt(g.tol) + g.unit + '</span>' +
     kbo.map((v) => '<span class="dot k" style="left:' + x(v) + '"></span>').join('') + ours.map((v) => '<span class="dot" style="left:' + x(v) + '"></span>').join('') + ticks.join('') + '</div>' +
     '<div class="v2"><span class="box2">' + P.fmt(g.tol) + '</span> ' + g.unit + '<div class="xs muted" style="margin-top:4px">2025 이 엔진 ' + P.show('ours25', g) + ' · KBO ' + P.show('kbo25', g) + '</div></div></div>'; };
 document.querySelector('.wrap2').innerHTML =
-  '<div class="sec"><h3>무엇을 먼저 맞출까요? <span class="small muted" style="font-weight:400">추천 순서 하나를 고르거나 직접 정합니다 · 반드시 지킬 규칙은 어느 순서든 항상 지킴</span></h3><div class="orders" style="margin-top:8px">' +
+  '<div class="sec"><h3>우선순위 <span class="small muted">추천 순서 하나를 고르거나 직접 정합니다. 반드시 지킬 규칙은 어느 순서든 항상 지킵니다.</span></h3><div class="orders" style="margin-top:8px">' +
   oc(true, '균형 먼저 (기본)', '구단 사이 공평함을 가장 먼저. 지금 엔진 순서', ['moves', 'dist', 'hol', 'total']) +
   oc(false, '거리 먼저', '리그 전체 이동을 가장 줄이고, 균형은 그다음', ['total', 'dist', 'moves', 'hol']) +
   oc(false, '주말·공휴일 먼저', '흥행 날짜의 홈 경기를 고르게 나누는 것이 먼저', ['hol', 'moves', 'dist', 'total']) +
   oc(false, '직접 정하기', '네 목적식을 끌어서 순서를 정합니다', ['…', '…', '…', '…'].map(() => 'moves'), true).replace(/<li>이동 횟수 균형<\/li>/g, '<li>끌어서 정하기</li>') +
   '</div><div class="xs muted" style="margin-top:6px">순서마다 결과 숫자는 실행해 봐야 압니다 — 실행 뒤 버전으로 저장해 비교하세요.</div></div>' +
-  '<div class="sec" style="overflow:hidden"><h3>허용 차이 <span class="small muted" style="font-weight:400">초록 막대 끝을 끌어 정합니다 · 파랑 점 = 2025 이 엔진 결과의 구단 10개 · 회색 점 = 2025 KBO 실제</span></h3>' +
+  '<div class="sec" style="overflow:hidden"><h3>허용 차이 <span class="small muted">초록 막대 끝을 끌어 정합니다. 파랑 점 = 2025 이 엔진의 구단 10개, 회색 점 = 2025 KBO 실제</span></h3>' +
   sl(G[0], 28, 40, 2) + sl(G[1], 5800, 8200, 400) + sl(G[2], 20, 34, 2) +
   '<div class="small" style="margin-top:6px;padding:8px 10px;border:1px solid var(--line);background:var(--surface-2);border-radius:6px">초록 창 안에 모든 구단이 들어오면 그 목적식은 만족으로 보고 다음 순위로 넘어갑니다. 창 밖으로 나가면 나간 만큼 줄이려 노력합니다(반드시 지키는 것은 아님). 전체 이동 거리는 허용 차이 없이 짧을수록 좋습니다.</div></div>';
 </script></body></html>

diff --git a/ui-archive/plan-flow-concepts/s3-teams.html b/ui-archive/plan-flow-concepts/s3-teams.html
@@ -7,12 +7,12 @@ const LL = { SSG: [37.4370, 126.6932], 두산: [37.5122, 127.0719], LG: [37.5122
 document.querySelector('.body').innerHTML =
   '<aside class="card"><div class="kick">1 / 4단계 · 구단 정보</div><h2>2027 시즌 구단 정보</h2>' +
   '<div class="box"><span class="tag got">2025에서 가져옴</span><div class="small" style="margin-top:6px">10구단 · 구장 · 위치 · 구장 사이 도로 거리. 2027 구단 정보는 아직 나오지 않아 가장 최근 시즌(2025) 것을 넣었습니다.</div></div>' +
-  '<div class="ask now"><div class="q"><span class="no">?</span>2027에 바뀐 구단 정보가 있나요?</div><div class="a chips"><span class="chip rec">없어요 — 그대로</span><span class="chip">있어요 — 고칠게요</span></div><div class="why xs muted" style="margin-top:6px">예: 구장 이전 · 임시 구장 사용 · 구단 이름 변경</div></div>' +
-  '<div class="box warn"><h4>이 단계에는 추정값이 없습니다</h4><div class="small">노란 <span class="tag est">추정 · 확정 아님</span> 표시는 2·3단계에 있습니다.</div></div>' +
+  '<div class="ask now"><div class="q"><span class="no">?</span>바뀐 구단 정보가 있나요?</div><div class="a chips"><span class="chip rec">없어요 — 그대로</span><span class="chip">있어요 — 고칠게요</span></div><div class="why xs muted" style="margin-top:6px">예: 구장 이전 · 임시 구장 사용 · 구단 이름 변경</div></div>' +
+  '<div class="box warn"><h4>추정값 없음</h4><div class="small">노란 <span class="tag est">추정 · 확정 아님</span> 표시는 2·3단계에 있습니다.</div></div>' +
   '</aside>' +
   '<main class="main"><div class="head"><b>구단 정보</b><span class="desc">10구단 · 잠실은 두산·LG가 같이 씀</span></div><div class="body2"><table class="t"><tr><th>#</th><th>구단</th><th>구장</th><th class="num">위도</th><th class="num">경도</th></tr>' +
   P.TEAMS.map((t, i) => '<tr><td>' + (i + 1) + '</td><td><b>' + t + '</b></td><td>' + ST[t] + '</td><td class="num">' + LL[t][0].toFixed(4) + '</td><td class="num">' + LL[t][1].toFixed(4) + '</td></tr>').join('') +
   '</table><div class="small muted" style="margin-top:10px">구장 지도 · 구장 사이 거리표는 지금 스튜디오 화면과 같습니다(이 시안에서는 생략).</div></div></main>' +
   P.ring(12, 188, 316, 112) +
-  P.coach({ n: 1, of: 4, title: '2027 값을 한 단계씩 검토합니다', text: '값은 미리 채워 두었지만 <b>확정되지 않은 추정값</b>이 섞여 있습니다. 단계마다 「왜 이 값?」을 읽고, 맞으면 <b>맞아요</b>, 다르면 <b>고치기</b>를 누르세요. 4단계를 모두 확인해야 「엔진 옵션·실행」으로 넘어갑니다.<br><br>먼저 구단 정보입니다. 2025와 달라진 것이 없으면 「없어요 — 그대로」.', x: 340, y: 186, side: 'l', w: 330, btn: '알겠어요 ›' });
+  P.coach({ n: 1, of: 4, title: '한 단계씩 검토', text: '값은 미리 채워 두었지만 <b>확정되지 않은 추정값</b>이 섞여 있습니다. 단계마다 「왜 이 값?」을 읽고, 맞으면 <b>맞아요</b>, 다르면 <b>고치기</b>를 누르세요. 4단계를 모두 확인해야 「엔진 옵션·실행」으로 넘어갑니다.<br><br>먼저 구단 정보입니다. 2025와 달라진 것이 없으면 「없어요 — 그대로」.', x: 340, y: 186, side: 'l', w: 330, btn: '알겠어요 ›' });
 </script></body></html>

diff --git a/ui-archive/plan-flow-concepts/s6-check.html b/ui-archive/plan-flow-concepts/s6-check.html
@@ -3,11 +3,11 @@ const P = Plan;
 P.chrome({ year: 2027, mode: '새 계획', stage: 1, ssub: { 1: '4 / 4 확인', 2: '값 검토를 마치면', 3: '실행 뒤', 4: '저장한 버전 없음' }, at: 4, sub: { 1: '✓ 바뀐 것 없음', 2: '✓ 추정값 3개 확인함', 3: '✓ 추정값 2개 확인함', 4: '따라 하기 4 / 4' },
   prev: '이전: 3 공휴일·홈 구장', hint: '<b>4 / 4 확인</b> — 모든 값을 검토했습니다. 다음은 엔진 옵션입니다', next: '다음: 엔진 옵션·실행' });
 const row = (n, t, s, b) => '<div class="rrow done"><i>✓</i><div class="t"><b>' + n + ' ' + t + '</b><small>' + s + '</small></div><span class="btn sm">' + (b || '다시 보기') + '</span></div>';
-document.querySelector('.resume').innerHTML = '<div class="rcard" style="width:920px"><div class="kick">4 / 4단계 · 확인</div><h2>2027 값 검토를 마쳤습니다</h2><p class="sub">추정값 5개를 모두 확인했고, 고친 값은 없습니다. 고치고 싶으면 단계를 눌러 돌아가세요.</p>' +
+document.querySelector('.resume').innerHTML = '<div class="rcard" style="width:920px"><div class="kick">4 / 4단계 · 확인</div><h2>검토 완료</h2><p class="sub">추정값 5개 모두 확인 · 고친 값 없음. 고치려면 단계를 눌러 돌아갑니다.</p>' +
   row(1, '구단 정보', '10구단 · 구장 · 거리 — 2025 그대로 (바뀐 것 없음)') +
   row(2, '시즌 기간·연전 묶음', '개막 3/27(토) ~ 1차 편성 9/5(일) · 경기일 135일 · 올스타 휴식기 7/9~14 · 연전 묶음 45개 &nbsp;<span class="tag ok">추정 3개 확인함</span>') +
   row(3, '공휴일·홈 구장', '개막전 홈 KT·삼성·KIA·LG·SSG · 어린이날 홈 두산·키움·한화·롯데·NC · 홈 73/71 &nbsp;<span class="tag ok">추정 2개 확인함</span>') +
   '<div class="rrow done"><i>✓</i><div class="t"><b>사전 점검</b><small>경기 225개(맞대결 15경기씩) · 하루 5경기 · 지정한 홈 구장이 서로 겹치지 않음 — 이대로 편성할 수 있습니다</small></div><span class="stat ok">통과</span></div>' +
   '<div class="rfoot"><span class="small muted">검토한 값은 이 브라우저에 저장됩니다</span><span class="small muted">아래 「다음」을 누르면 엔진 옵션으로 갑니다</span></div></div>' +
-  P.coach({ n: 4, of: 4, title: '이제 엔진 옵션을 정합니다', text: '무엇을 먼저 맞출지(목적식 순서)와 구단 사이 차이를 얼마까지 허용할지 정한 뒤 실행합니다. 기본값 그대로 실행해도 됩니다.', x: 1120, y: 515, side: 'b', w: 300, btn: '엔진 옵션으로 ›' });
+  P.coach({ n: 4, of: 4, title: '다음은 엔진 옵션', text: '무엇을 먼저 맞출지(목적식 순서)와 구단 사이 차이를 얼마까지 허용할지 정한 뒤 실행합니다. 기본값 그대로 실행해도 됩니다.', x: 1120, y: 515, side: 'b', w: 300, btn: '엔진 옵션으로 ›' });
 </script></body></html>

diff --git a/ui-archive/plan-flow-concepts/s8-running.html b/ui-archive/plan-flow-concepts/s8-running.html
@@ -5,7 +5,7 @@ P.chrome({ year: 2027, mode: '새 계획', stage: 2, ssub: { 1: '✓ 4단계 검
 const tile = (g, k) => { const v = P.val(S, g), ok = !g.tol || v <= g.tol; return '<div class="tile"><span class="rk">' + (k + 1) + '순위</span><div class="k">' + g.name + '</div><div class="v">' + P.show(S, g) + '<small>' + g.unit + '</small></div>' +
   (g.tol ? '<div class="meter"><i class="' + (ok ? '' : 'over') + '" style="width:' + Math.min(100, v / g.tol * 100).toFixed(0) + '%"></i></div><div class="s">허용 ' + P.fmt(g.tol) + g.unit + ' — ' + (ok ? '<b style="color:var(--ok)">안</b>' : '<b style="color:var(--bad)">넘음</b>') + '</div>' : '<div class="s" style="margin-top:6px">짧을수록 좋음 · 10구단 합</div>') + '</div>'; };
 document.querySelector('.page').innerHTML =
-  '<div class="hero run"><div class="big" style="font-size:24px">찾는 중…</div><div><h2>아래는 지금까지 가장 좋은 결과입니다</h2><p>0:20 지남 · 반드시 지킬 규칙은 모두 지키고 있습니다 · 결과를 2초마다 받아 옴 (마지막: 1초 전) · 더 나아지지 않으면 스스로 멈춥니다</p></div><div class="r"><span class="btn">멈추고 이 결과 쓰기</span></div></div>' +
+  '<div class="hero run"><div class="big" style="font-size:24px">찾는 중…</div><div><h2>지금까지 가장 좋은 결과</h2><p>0:20 지남 · 반드시 지킬 규칙은 모두 지키고 있습니다 · 결과를 2초마다 받아 옴 (마지막: 1초 전) · 더 나아지지 않으면 스스로 멈춥니다</p></div><div class="r"><span class="btn">멈추고 이 결과 쓰기</span></div></div>' +
   '<div class="tiles">' + G.map(tile).join('') + '</div>' +
   '<div class="grid" style="grid-template-columns:1.3fr 1fr;flex:1">' +
   '<div class="panel"><h3>구단별 이동 거리 <span class="muted">지금까지 가장 좋은 결과 · 초록 띠 = 가장 적은 구단 + 허용 차이 600km · 막대는 5,400km부터</span></h3>' + P.teamBars(S, 0, 600, 'km') + '</div>' +

diff --git a/ui-archive/plan-flow-concepts/s2-2025.html b/ui-archive/plan-flow-concepts/s2-2025.html
@@ -8,7 +8,7 @@ const card = (g, k) => '<div class="vc win"><div class="k"><span class="tag blue
   '<div class="lab">' + (g.tol ? '<span>허용 차이 ' + P.fmt(g.tol) + g.unit + ' — KBO <b style="color:var(--bad)">넘음</b> · 이 엔진 <b style="color:var(--ok)">안</b></span>' : '<span>줄일수록 좋음</span>') + '</div></div>';
 const ra = (s, i) => P.range(s, i).join('~');
 document.querySelector('.page').innerHTML =
-  '<div class="hero"><div class="big">−13<small>%</small></div><div><h2>같은 2025 조건에서 KBO 실제 일정보다 목적식 4개가 모두 좋아졌습니다</h2><p>전체 이동 거리 ' + P.fmt(P.TOTAL.kbo25) + 'km → ' + P.fmt(P.TOTAL.ours25) + 'km · 구단 간 이동 거리 차이 ' + P.show('kbo25', G[1]) + 'km → ' + P.show('ours25', G[1]) + 'km · 꼭 지킬 규칙 모두 지킴</p></div><div class="r"><span class="tag got">저장된 결과 · 2026-10-20 실행</span></div></div>' +
+  '<div class="hero"><div class="big">−13<small>%</small></div><div><h2>목적식 4개 모두 KBO보다 나음</h2><p>같은 2025 조건에서 비교 · 전체 이동 거리 ' + P.fmt(P.TOTAL.kbo25) + 'km → ' + P.fmt(P.TOTAL.ours25) + 'km · 구단 간 이동 거리 차이 ' + P.show('kbo25', G[1]) + 'km → ' + P.show('ours25', G[1]) + 'km · 꼭 지킬 규칙 모두 지킴</p></div><div class="r"><span class="tag got">저장된 결과 · 2026-10-20 실행</span></div></div>' +
   '<div class="vs" style="grid-template-columns:repeat(4,minmax(0,1fr))">' + G.map(card).join('') + '</div>' +
   '<div class="grid" style="grid-template-columns:1.25fr 1fr;flex:1">' +
   '<div class="panel"><h3>구단별 이동 거리 <span class="muted">막대는 5,400km부터 · 회색 KBO 실제 · 파랑 이 엔진 · 초록 띠 = 이 엔진에서 가장 적은 구단 + 허용 차이 600km</span></h3>' + P.teamBars('ours25', 0, 600, 'km', 'kbo25') + '</div>' +

diff --git a/ui-archive/plan-flow-concepts/s7-options.html b/ui-archive/plan-flow-concepts/s7-options.html
@@ -17,7 +17,7 @@ document.querySelector('.wrap2').innerHTML =
   '<div class="sec"><h3>이렇게 실행합니다</h3><ol style="margin:4px 0 0;padding-left:18px;line-height:1.9">' + G.map((g) => '<li><b>' + g.name + '</b>' + (g.tol ? ' <span class="muted">— 차이 ' + P.fmt(g.tol) + g.unit + '까지</span>' : ' <span class="muted">— 짧게</span>') + '</li>').join('') + '</ol>' +
   '<div class="box" style="margin-top:10px"><h4>기본값은 어디서 왔나요?</h4><div class="small">지금 엔진의 기본 허용 범위(리그 평균 ±2회 · ±300km · ±1.5점)를 「가장 많은·적은 구단 차이」로 옮긴 값입니다.</div></div></div>' +
   '<div class="sec"><h3>실행</h3><p class="d">엔진이 더 나은 결과를 찾다가 <b>더 나아지지 않으면 스스로 멈춥니다</b>. 그동안 몇 초마다 지금까지 가장 좋은 결과를 화면에 보여 줍니다.</p>' +
-  '<div class="fold"><b>▸ 더 보기</b> <span class="small muted">최대 실행 시간 · 출발점 수 (보통은 그대로)</span></div>' +
+  '<div class="fold"><b>▸ 더 보기</b> <span class="small muted">최대 실행 시간 · 다시 시도 횟수 (보통은 그대로)</span></div>' +
   '<div class="box blue" style="margin-top:10px"><div class="small">결과는 <b>이름을 붙여 버전으로 저장</b>합니다. 순서나 허용 차이를 바꿔 다시 실행하면 새 버전이 생기고, 버전끼리 비교할 수 있습니다.</div></div>' +
   '<span class="btn pri big" style="margin-top:12px;display:flex;justify-content:center">계획 실행 ›</span></div></div>';
 </script></body></html>

diff --git a/ui-archive/plan-flow-concepts/c-versions.html b/ui-archive/plan-flow-concepts/c-versions.html
@@ -7,7 +7,7 @@ document.querySelector('.rail').innerHTML = '<h3>버전 <span class="r xs muted"
   '<div class="rv2 view"><span class="role">보는 중</span><b>2027 기본안</b><div class="xs muted">10/31 11:43 · 값 그대로 · 기본 순서</div>' + m(A) + '</div>' +
   '<div class="rv2 cmpv"><span class="role">비교</span><b>2027 개막 대진 바꾼 안</b><div class="xs muted">10/31 11:47 · 개막 대진 2쌍 맞바꿈</div>' + m(B) + '</div>' +
   '<div class="rv2 new">+ 지금 결과를 새 버전으로 저장</div>' +
-  '<div style="margin-top:auto" class="xs muted">버전은 JSON 파일로 저장됩니다(나중에 온라인 저장소). <a>파일로 내보내기</a> · <a>불러오기</a></div>';
+  '<div style="margin-top:auto" class="xs muted">스튜디오 안에 저장됩니다(나중에 온라인으로). <a>내려받기</a> · <a>받은 버전 올리기</a></div>';
 const tile = (x, k) => { const a = P.val(A, x), b = P.val(B, x), d = a - b, ok = !x.tol || a <= x.tol;
   return '<div class="tile' + (x === g ? ' on' : '') + '"><span class="rk">' + (k + 1) + '순위</span><div class="k">' + x.name + '</div><div class="v">' + P.show(A, x) + '<small>' + x.unit + '</small></div>' +
     '<div class="vs2">비교 ' + P.show(B, x) + x.unit + ' → <b class="' + (d > 0 ? 'up' : d < 0 ? 'dn' : 'eq') + '">' + (d === 0 ? '같음' : (d > 0 ? '▲ ' : '▼ ') + P.fmt(Math.abs(d), x.id === 'dist' ? 1 : 0) + x.unit) + '</b></div>' +
